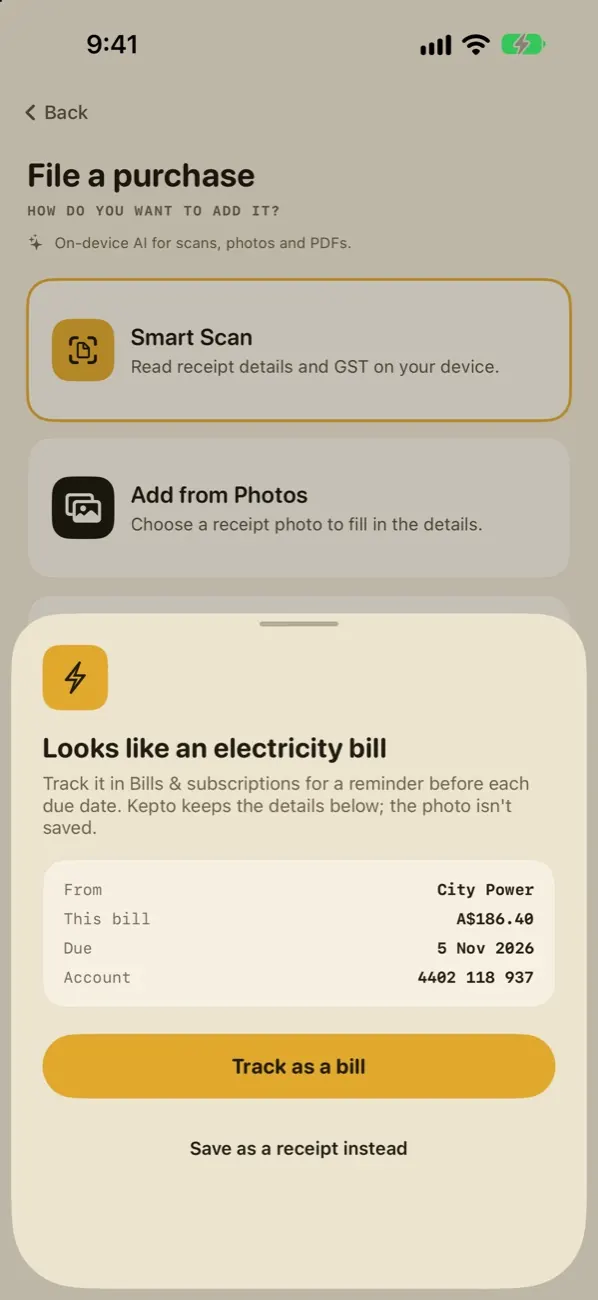
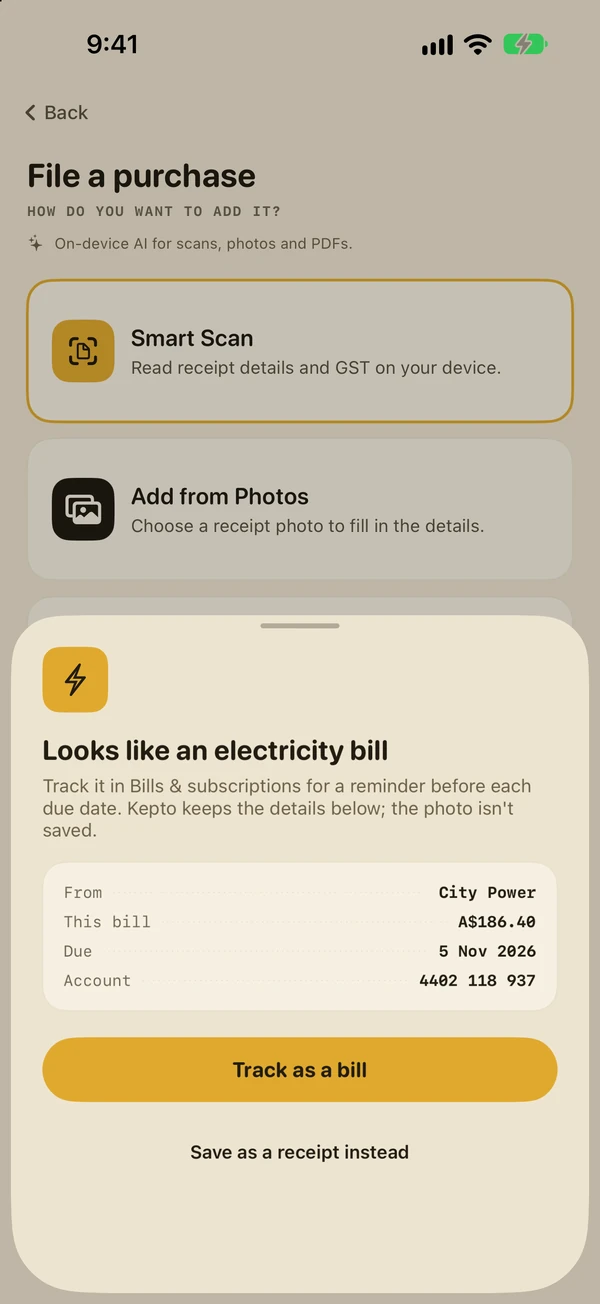
Sharper images, endless product strip, crisp tilts on 1x screens
App screenshots rebuilt from the full-size captures at 600 and 900 wide,
picked by srcset. Logo re-exported from the original. Phone and product
card image corners now match their frames. Product strip repeats four
times so it never runs out on wide screens, and no longer pauses on hover.
Tilted text sits straight on 1x screens, and the hero fade-in no longer
keeps its own layer. Hero badges removed. Stylesheet link bumped to v=12.

diff --git a/index.html b/index.html
@@ -31,8 +31,8 @@
 <link rel="preconnect" href="https://fonts.googleapis.com">
 <link rel="preconnect" href="https://fonts.gstatic.com" crossorigin>
 <link rel="stylesheet" href="https://fonts.googleapis.com/css2?family=DM+Sans:wght@400;500;600;700&family=Poppins:wght@600;700&display=swap">
-<link rel="preload" as="image" href="img/app-home.webp" fetchpriority="high">
-<link rel="stylesheet" href="css/site.css?v=9">
+<link rel="preload" as="image" href="img/app-home.webp" imagesrcset="img/app-home.webp 600w, img/app-home-900.webp 900w" imagesizes="(max-width: 600px) 220px, 280px" fetchpriority="high">
+<link rel="stylesheet" href="css/site.css?v=12">
 <script>document.documentElement.classList.add('js');</script>
 </head>
 <body>
@@ -71,10 +71,6 @@
   <!-- HERO -->
   <section class="hero">
     <div class="hero-copy">
-      <div class="badges">
-        <span class="badge"><b>No account</b> needed</span>
-        <span class="badge"><b>Works</b> offline</span>
-      </div>
       <h1>Keep proof of what you <mark>bought</mark><span class="dot">.</span></h1>
       <p class="hero-sub">Every receipt, warranty, bill and important document in one place, kept on your phone.</p>
       <div class="stores">
@@ -92,8 +88,8 @@
 
     <div class="hero-art">
       <span class="tag one">7 covered, 1 expiring soon</span>
-      <div class="phone back"><img src="img/app-items.webp" width="598" height="1300" alt="Kepto's list of receipts, each with its warranty end date and years left"></div>
-      <div class="phone front"><img src="img/app-home.webp" width="598" height="1300" fetchpriority="high" alt="Kepto on iPhone: the home screen with receipts, warranties, the document vault, and bills and subscriptions"></div>
+      <div class="phone back"><img src="img/app-items.webp" srcset="img/app-items.webp 600w, img/app-items-900.webp 900w" sizes="(max-width: 600px) 220px, 280px" width="600" height="1304" alt="Kepto's list of receipts, each with its warranty end date and years left"></div>
+      <div class="phone front"><img src="img/app-home.webp" srcset="img/app-home.webp 600w, img/app-home-900.webp 900w" sizes="(max-width: 600px) 220px, 280px" width="600" height="1304" fetchpriority="high" alt="Kepto on iPhone: the home screen with receipts, warranties, the document vault, and bills and subscriptions"></div>
       <span class="tag two">4.9 years left</span>
     </div>
   </section>
@@ -153,6 +149,22 @@
         <div class="keep" aria-hidden="true"><img src="img/item-headphones.webp" width="400" height="400" loading="lazy" decoding="async" alt=""><b>Headphones</b><span class="stamp">Covered</span><small><strong>1.1</strong> years left</small></div>
         <div class="keep" aria-hidden="true"><img src="img/item-fridge.webp" width="400" height="400" loading="lazy" decoding="async" alt=""><b>Fridge</b><span class="stamp">Covered</span><small><strong>3.5</strong> years left</small></div>
         <div class="keep" aria-hidden="true"><img src="img/item-camera.webp" width="400" height="400" loading="lazy" decoding="async" alt=""><b>Camera</b><span class="stamp">Covered</span><small><strong>1.9</strong> years left</small></div>
+        <div class="keep" aria-hidden="true"><img src="img/item-coffee.webp" width="400" height="400" loading="lazy" decoding="async" alt=""><b>Espresso machine</b><span class="stamp">Covered</span><small><strong>2.0</strong> years left</small></div>
+        <div class="keep" aria-hidden="true"><img src="img/item-washer.webp" width="400" height="400" loading="lazy" decoding="async" alt=""><b>Washing machine</b><span class="stamp">Covered</span><small><strong>4.9</strong> years left</small></div>
+        <div class="keep" aria-hidden="true"><img src="img/item-watch.webp" width="400" height="400" loading="lazy" decoding="async" alt=""><b>Smart watch</b><span class="stamp">Covered</span><small><strong>1.4</strong> years left</small></div>
+        <div class="keep" aria-hidden="true"><img src="img/item-tv.webp" width="400" height="400" loading="lazy" decoding="async" alt=""><b>Television</b><span class="stamp">Covered</span><small><strong>2.7</strong> years left</small></div>
+        <div class="keep" aria-hidden="true"><img src="img/item-laptop.webp" width="400" height="400" loading="lazy" decoding="async" alt=""><b>Laptop</b><span class="stamp">Covered</span><small><strong>0.8</strong> years left</small></div>
+        <div class="keep" aria-hidden="true"><img src="img/item-headphones.webp" width="400" height="400" loading="lazy" decoding="async" alt=""><b>Headphones</b><span class="stamp">Covered</span><small><strong>1.1</strong> years left</small></div>
+        <div class="keep" aria-hidden="true"><img src="img/item-fridge.webp" width="400" height="400" loading="lazy" decoding="async" alt=""><b>Fridge</b><span class="stamp">Covered</span><small><strong>3.5</strong> years left</small></div>
+        <div class="keep" aria-hidden="true"><img src="img/item-camera.webp" width="400" height="400" loading="lazy" decoding="async" alt=""><b>Camera</b><span class="stamp">Covered</span><small><strong>1.9</strong> years left</small></div>
+        <div class="keep" aria-hidden="true"><img src="img/item-coffee.webp" width="400" height="400" loading="lazy" decoding="async" alt=""><b>Espresso machine</b><span class="stamp">Covered</span><small><strong>2.0</strong> years left</small></div>
+        <div class="keep" aria-hidden="true"><img src="img/item-washer.webp" width="400" height="400" loading="lazy" decoding="async" alt=""><b>Washing machine</b><span class="stamp">Covered</span><small><strong>4.9</strong> years left</small></div>
+        <div class="keep" aria-hidden="true"><img src="img/item-watch.webp" width="400" height="400" loading="lazy" decoding="async" alt=""><b>Smart watch</b><span class="stamp">Covered</span><small><strong>1.4</strong> years left</small></div>
+        <div class="keep" aria-hidden="true"><img src="img/item-tv.webp" width="400" height="400" loading="lazy" decoding="async" alt=""><b>Television</b><span class="stamp">Covered</span><small><strong>2.7</strong> years left</small></div>
+        <div class="keep" aria-hidden="true"><img src="img/item-laptop.webp" width="400" height="400" loading="lazy" decoding="async" alt=""><b>Laptop</b><span class="stamp">Covered</span><small><strong>0.8</strong> years left</small></div>
+        <div class="keep" aria-hidden="true"><img src="img/item-headphones.webp" width="400" height="400" loading="lazy" decoding="async" alt=""><b>Headphones</b><span class="stamp">Covered</span><small><strong>1.1</strong> years left</small></div>
+        <div class="keep" aria-hidden="true"><img src="img/item-fridge.webp" width="400" height="400" loading="lazy" decoding="async" alt=""><b>Fridge</b><span class="stamp">Covered</span><small><strong>3.5</strong> years left</small></div>
+        <div class="keep" aria-hidden="true"><img src="img/item-camera.webp" width="400" height="400" loading="lazy" decoding="async" alt=""><b>Camera</b><span class="stamp">Covered</span><small><strong>1.9</strong> years left</small></div>
       </div>
     </div>
   </section>
@@ -196,7 +208,7 @@
             <h3>Snap the receipt.</h3>
             <p>Scan it, or pick a photo or PDF. Kepto reads it on your phone and can tell a receipt from a bill.</p>
           </div>
-          <div class="step-shot"><div class="phone"><img src="img/app-detect.webp" width="598" height="1300" loading="lazy" alt="Kepto recognising a scanned electricity bill and offering to track it"></div></div>
+          <div class="step-shot"><div class="phone"><img src="img/app-detect.webp" srcset="img/app-detect.webp 600w, img/app-detect-900.webp 900w" sizes="(max-width: 600px) 220px, 280px" width="600" height="1304" loading="lazy" alt="Kepto recognising a scanned electricity bill and offering to track it"></div></div>
         </article>
         <article class="card step reveal">
           <span class="step-n">2</span>
@@ -204,7 +216,7 @@
             <h3>Check the details.</h3>
             <p>Store, price, tax, purchase date and warranty length are filled in for you. Fix anything that looks off.</p>
           </div>
-          <div class="step-shot"><div class="phone"><img src="img/app-detail.webp" width="598" height="1300" loading="lazy" alt="A saved receipt for an espresso machine with price, dates and warranty length"></div></div>
+          <div class="step-shot"><div class="phone"><img src="img/app-detail.webp" srcset="img/app-detail.webp 600w, img/app-detail-900.webp 900w" sizes="(max-width: 600px) 220px, 280px" width="600" height="1304" loading="lazy" alt="A saved receipt for an espresso machine with price, dates and warranty length"></div></div>
         </article>
         <article class="card step reveal">
           <span class="step-n">3</span>
@@ -212,7 +224,7 @@
             <h3>Forget about it.</h3>
             <p>Kepto counts the days and sends one calm reminder a few weeks before each warranty ends.</p>
           </div>
-          <div class="step-shot"><div class="phone"><img src="img/app-items.webp" width="598" height="1300" loading="lazy" alt="Receipts grouped by month, each showing the years of warranty left"></div></div>
+          <div class="step-shot"><div class="phone"><img src="img/app-items.webp" srcset="img/app-items.webp 600w, img/app-items-900.webp 900w" sizes="(max-width: 600px) 220px, 280px" width="600" height="1304" loading="lazy" alt="Receipts grouped by month, each showing the years of warranty left"></div></div>
         </article>
       </div>
     </div>
@@ -230,25 +242,25 @@
           <span class="tab">Home</span>
           <h3>Everything at a glance<span class="dot">.</span></h3>
           <p>What you own, what's covered and what's expiring soon.</p>
-          <div class="phone"><img src="img/app-home.webp" width="598" height="1300" loading="lazy" alt="Kepto home screen with collection value and recent receipts"></div>
+          <div class="phone"><img src="img/app-home.webp" srcset="img/app-home.webp 600w, img/app-home-900.webp 900w" sizes="(max-width: 600px) 220px, 280px" width="600" height="1304" loading="lazy" alt="Kepto home screen with collection value and recent receipts"></div>
         </article>
         <article class="tour-card sky reveal">
           <span class="tab">Bills</span>
           <h3>Bills and subscriptions, counted<span class="dot">.</span></h3>
           <p>See what renews next and what it all costs a month.</p>
-          <div class="phone"><img src="img/app-bills.webp" width="598" height="1300" loading="lazy" alt="Bills and subscriptions with renewal dates and monthly totals"></div>
+          <div class="phone"><img src="img/app-bills.webp" srcset="img/app-bills.webp 600w, img/app-bills-900.webp 900w" sizes="(max-width: 600px) 220px, 280px" width="600" height="1304" loading="lazy" alt="Bills and subscriptions with renewal dates and monthly totals"></div>
         </article>
         <article class="tour-card rose reveal">
           <span class="tab">Stats</span>
           <h3>Know where you stand<span class="dot">.</span></h3>
           <p>Cover at a glance, and spending by the month and year.</p>
-          <div class="phone"><img src="img/app-stats.webp" width="598" height="1300" loading="lazy" alt="Stats screen showing 70 percent of items covered and yearly bill totals"></div>
+          <div class="phone"><img src="img/app-stats.webp" srcset="img/app-stats.webp 600w, img/app-stats-900.webp 900w" sizes="(max-width: 600px) 220px, 280px" width="600" height="1304" loading="lazy" alt="Stats screen showing 70 percent of items covered and yearly bill totals"></div>
         </article>
         <article class="tour-card mint reveal">
           <span class="tab">Receipts</span>
           <h3>Proof, ready to share<span class="dot">.</span></h3>
           <p>Every detail on one page, for a claim, a return or tax time.</p>
-          <div class="phone"><img src="img/app-detail.webp" width="598" height="1300" loading="lazy" alt="Receipt detail with a share receipt button"></div>
+          <div class="phone"><img src="img/app-detail.webp" srcset="img/app-detail.webp 600w, img/app-detail-900.webp 900w" sizes="(max-width: 600px) 220px, 280px" width="600" height="1304" loading="lazy" alt="Receipt detail with a share receipt button"></div>
         </article>
       </div>
     </div>
@@ -268,7 +280,7 @@
         </ul>
       </div>
       <div class="night-art">
-        <div class="phone"><img src="img/app-vault.webp" width="598" height="1300" loading="lazy" alt="The Kepto vault with car registration, health card, driver licence and passport, each marked encrypted"></div>
+        <div class="phone"><img src="img/app-vault.webp" srcset="img/app-vault.webp 600w, img/app-vault-900.webp 900w" sizes="(max-width: 600px) 220px, 280px" width="600" height="1304" loading="lazy" alt="The Kepto vault with car registration, health card, driver licence and passport, each marked encrypted"></div>
       </div>
     </div>
   </section>

diff --git a/css/site.css b/css/site.css
@@ -94,7 +94,7 @@ h1,h2,h3{font-family:var(--display);letter-spacing:-0.025em;text-wrap:balance;}
 
 /* phone: thin ink outline, real capture inside */
 .phone{--pw:240px;width:var(--pw);max-width:100%;flex-shrink:0;background:var(--surface);border:2.5px solid var(--ink);border-radius:calc(var(--pw) * 0.15);padding:calc(var(--pw) * 0.022);box-shadow:0 34px 50px -26px rgba(28,26,21,0.5);}
-.phone img{display:block;width:100%;height:auto;border-radius:calc(var(--pw) * 0.125);background:var(--band);}
+.phone img{display:block;width:100%;height:auto;border-radius:calc(var(--pw) * 0.128 - 2.5px);background:var(--band);}
 
 /* scroll reveal, only when the script is running */
 .js .reveal{opacity:0;translate:0 14px;transition:opacity 400ms ease,translate 400ms cubic-bezier(0.16,1,0.3,1);}
@@ -106,9 +106,6 @@ h1,h2,h3{font-family:var(--display);letter-spacing:-0.025em;text-wrap:balance;}
 
 /* ---- Home: hero ---- */
 .hero{max-width:var(--max);margin:0 auto;padding:32px var(--gutter) 88px;display:grid;grid-template-columns:minmax(0,1.05fr) minmax(0,0.95fr);gap:40px;align-items:center;}
-.badges{display:flex;flex-wrap:wrap;gap:8px;margin-bottom:18px;}
-.badge{font-size:15px;font-weight:500;line-height:1;color:var(--ink-2);background:var(--surface);border:var(--line) solid var(--ink);border-radius:999px;padding:8px 14px;}
-.badge b{color:var(--ink);font-weight:700;}
 .hero h1{font-weight:700;font-size:clamp(42px,5.4vw,62px);line-height:1.12;max-width:15ch;}
 .hero h1 mark{color:inherit;background:linear-gradient(transparent 62%,var(--amber-soft) 62%,var(--amber-soft) 94%,transparent 94%);padding:0 4px;margin:0 -4px;}
 .hero-sub{margin:22px 0 28px;font-size:20px;line-height:1.6;color:var(--ink-2);max-width:32ch;}
@@ -121,7 +118,7 @@ h1,h2,h3{font-family:var(--display);letter-spacing:-0.025em;text-wrap:balance;}
 .tag.one{left:6%;top:26px;background:var(--amber-soft);transform:rotate(-5deg);}
 .tag.two{right:0;bottom:92px;background:var(--surface);transform:rotate(3deg);}
 @media(prefers-reduced-motion:no-preference){
-  .hero-art .phone,.tag{animation:rise 500ms cubic-bezier(0.16,1,0.3,1) both;}
+  .hero-art .phone,.tag{animation:rise 500ms cubic-bezier(0.16,1,0.3,1) backwards;}
   .hero-art .front{animation-delay:60ms;}
   .tag{animation-delay:200ms;}
 }
@@ -158,10 +155,9 @@ h1,h2,h3{font-family:var(--display);letter-spacing:-0.025em;text-wrap:balance;}
 
 /* ---- Home: what you can keep (marquee) ---- */
 .keeps{overflow:hidden;margin-top:44px;-webkit-mask-image:linear-gradient(90deg,transparent,#000 8%,#000 92%,transparent);mask-image:linear-gradient(90deg,transparent,#000 8%,#000 92%,transparent);}
-.keeps-track{display:flex;width:max-content;animation:slide 45s linear infinite;}
-.keeps:hover .keeps-track{animation-play-state:paused;}
+.keeps-track{display:flex;width:max-content;animation:slide 90s linear infinite;}
 .keep{width:196px;margin-right:16px;flex-shrink:0;display:flex;flex-direction:column;align-items:center;gap:8px;text-align:center;background:var(--surface);border:var(--line) solid var(--ink);border-radius:22px;padding:10px 10px 16px;}
-.keep img{display:block;width:100%;height:auto;aspect-ratio:1;border-radius:14px;border:1px solid var(--border);margin-bottom:6px;}
+.keep img{display:block;width:100%;height:auto;aspect-ratio:1;border-radius:10.5px;border:1px solid var(--border);margin-bottom:6px;}
 .keep b{font-family:var(--display);font-weight:600;font-size:15.5px;line-height:1.2;letter-spacing:-0.01em;}
 .keep small{font-size:13.5px;color:var(--ink-2);line-height:1.2;}
 .keep small strong{font-family:var(--display);font-weight:700;font-size:17px;color:var(--ink);}
@@ -408,3 +404,8 @@ h1,h2,h3{font-family:var(--display);letter-spacing:-0.025em;text-wrap:balance;}
 .lp-foot a:hover{color:var(--ink);}
 .foot-links{display:flex;flex-wrap:wrap;gap:8px 22px;margin-top:20px;padding-top:18px;border-top:1px solid var(--band-line);font-size:14px;}
 .foot-links a{color:var(--ink);text-underline-offset:3px;}
+
+/* Tilted text blurs on 1x screens, so keep these straight there */
+@media (max-resolution:1.49dppx),(-webkit-max-device-pixel-ratio:1.49){
+  .hero-art .back,.tag.one,.tag.two,.sticky:nth-child(n),.plus > .tab{transform:none;}
+}

diff --git a/delete-data/index.html b/delete-data/index.html
@@ -27,7 +27,7 @@
 <link rel="preconnect" href="https://fonts.googleapis.com">
 <link rel="preconnect" href="https://fonts.gstatic.com" crossorigin>
 <link rel="stylesheet" href="https://fonts.googleapis.com/css2?family=DM+Sans:wght@400;500;600;700&family=Poppins:wght@600;700&display=swap">
-<link rel="stylesheet" href="../css/site.css?v=9">
+<link rel="stylesheet" href="../css/site.css?v=12">
 </head>
 <body>
 

diff --git a/privacy/index.html b/privacy/index.html
@@ -27,7 +27,7 @@
 <link rel="preconnect" href="https://fonts.googleapis.com">
 <link rel="preconnect" href="https://fonts.gstatic.com" crossorigin>
 <link rel="stylesheet" href="https://fonts.googleapis.com/css2?family=DM+Sans:wght@400;500;600;700&family=Poppins:wght@600;700&display=swap">
-<link rel="stylesheet" href="../css/site.css?v=9">
+<link rel="stylesheet" href="../css/site.css?v=12">
 </head>
 <body>
 

diff --git a/support/index.html b/support/index.html
@@ -28,7 +28,7 @@
 <link rel="preconnect" href="https://fonts.googleapis.com">
 <link rel="preconnect" href="https://fonts.gstatic.com" crossorigin>
 <link rel="stylesheet" href="https://fonts.googleapis.com/css2?family=DM+Sans:wght@400;500;600;700&family=Poppins:wght@600;700&display=swap">
-<link rel="stylesheet" href="../css/site.css?v=9">
+<link rel="stylesheet" href="../css/site.css?v=12">
 </head>
 <body>
 

diff --git a/terms/index.html b/terms/index.html
@@ -27,7 +27,7 @@
 <link rel="preconnect" href="https://fonts.googleapis.com">
 <link rel="preconnect" href="https://fonts.gstatic.com" crossorigin>
 <link rel="stylesheet" href="https://fonts.googleapis.com/css2?family=DM+Sans:wght@400;500;600;700&family=Poppins:wght@600;700&display=swap">
-<link rel="stylesheet" href="../css/site.css?v=9">
+<link rel="stylesheet" href="../css/site.css?v=12">
 </head>
 <body>
 

diff --git a/download/index.html b/download/index.html
@@ -39,7 +39,7 @@
 <link rel="preconnect" href="https://fonts.googleapis.com">
 <link rel="preconnect" href="https://fonts.gstatic.com" crossorigin>
 <link rel="stylesheet" href="https://fonts.googleapis.com/css2?family=DM+Sans:wght@400;500;600;700&family=Poppins:wght@600;700&display=swap">
-<link rel="stylesheet" href="/css/site.css?v=9">
+<link rel="stylesheet" href="/css/site.css?v=12">
 </head>
 <body>
 
